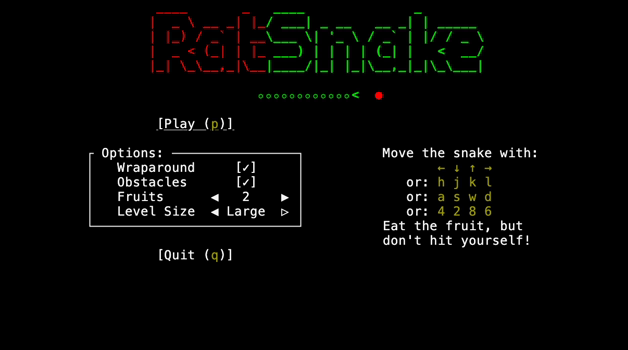
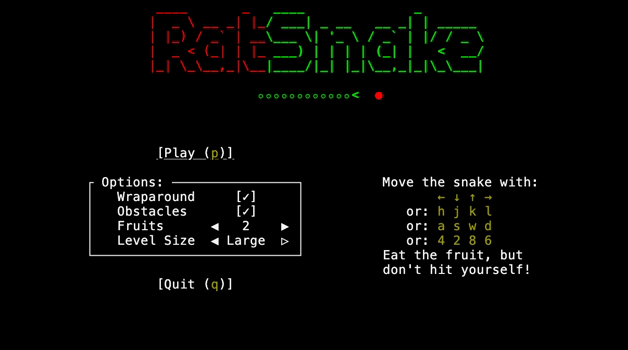
Yet another main menu layout tweak

diff --git a/src/menu/mod.rs b/src/menu/mod.rs
@@ -154,9 +154,12 @@ impl Widget for &MainMenu {
             .areas(logo_area);
         Logo.render(logo_area, buf);
 
-        let [main_area] = Layout::vertical([OptionsMenu::HEIGHT + 4])
-            .flex(Flex::Start)
-            .areas(main_area);
+        let [_, main_area, _] = Layout::vertical([
+            Constraint::Fill(1),
+            Constraint::Length(OptionsMenu::HEIGHT + 4),
+            Constraint::Fill(2),
+        ])
+        .areas(main_area);
         let [form_area, instructions_area] =
             Layout::horizontal([OptionsMenu::WIDTH, Instructions::WIDTH])
                 .flex(Flex::SpaceAround)
@@ -382,6 +385,8 @@ mod tests {
                  "                                                                                ",
                  "                                 ⚬⚬⚬⚬⚬⚬⚬⚬⚬⚬⚬⚬<  ●                               ",
                  "                                                                                ",
+                 "                                                                                ",
+                 "                                                                                ",
                  "                    [Play (p)]                                                  ",
                  "                                                                                ",
                  "           ┌ Options: ────────────────┐          Move the snake with:           ",
@@ -396,32 +401,30 @@ mod tests {
                  "                                                                                ",
                  "                                                                                ",
                  "                                                                                ",
-                 "                                                                                ",
-                 "                                                                                ",
             ]);
             expected.set_style(Rect::new(19, 0, 15, 5), consts::FRUIT_STYLE); // "Rat"
             expected.set_style(Rect::new(34, 0, 28, 5), consts::SNAKE_STYLE); // "Snake"
             expected.set_style(Rect::new(33, 6, 13, 1), consts::SNAKE_STYLE); // ⚬⚬…⚬<
             expected.set_style(Rect::new(48, 6, 1, 1), consts::FRUIT_STYLE); // fruit in logo
-            expected.set_style(Rect::new(27, 8, 1, 1), consts::KEY_STYLE); // `p`
-            expected.set_style(Rect::new(20, 8, 10, 1), consts::MENU_SELECTION_STYLE); // Play button
-            expected.set_style(Rect::new(27, 17, 1, 1), consts::KEY_STYLE); // `q`
-            expected.set_style(Rect::new(56, 11, 1, 1), consts::KEY_STYLE); // `←`
-            expected.set_style(Rect::new(58, 11, 1, 1), consts::KEY_STYLE); // `↓`
-            expected.set_style(Rect::new(60, 11, 1, 1), consts::KEY_STYLE); // `↑`
-            expected.set_style(Rect::new(62, 11, 1, 1), consts::KEY_STYLE); // `→`
-            expected.set_style(Rect::new(56, 12, 1, 1), consts::KEY_STYLE); // `h`
-            expected.set_style(Rect::new(58, 12, 1, 1), consts::KEY_STYLE); // `j`
-            expected.set_style(Rect::new(60, 12, 1, 1), consts::KEY_STYLE); // `k`
-            expected.set_style(Rect::new(62, 12, 1, 1), consts::KEY_STYLE); // `l`
-            expected.set_style(Rect::new(56, 13, 1, 1), consts::KEY_STYLE); // `a`
-            expected.set_style(Rect::new(58, 13, 1, 1), consts::KEY_STYLE); // `s`
-            expected.set_style(Rect::new(60, 13, 1, 1), consts::KEY_STYLE); // `w`
-            expected.set_style(Rect::new(62, 13, 1, 1), consts::KEY_STYLE); // `s`
-            expected.set_style(Rect::new(56, 14, 1, 1), consts::KEY_STYLE); // `4`
-            expected.set_style(Rect::new(58, 14, 1, 1), consts::KEY_STYLE); // `2`
-            expected.set_style(Rect::new(60, 14, 1, 1), consts::KEY_STYLE); // `8`
-            expected.set_style(Rect::new(62, 14, 1, 1), consts::KEY_STYLE); // `6`
+            expected.set_style(Rect::new(27, 10, 1, 1), consts::KEY_STYLE); // `p`
+            expected.set_style(Rect::new(20, 10, 10, 1), consts::MENU_SELECTION_STYLE); // Play button
+            expected.set_style(Rect::new(27, 19, 1, 1), consts::KEY_STYLE); // `q`
+            expected.set_style(Rect::new(56, 13, 1, 1), consts::KEY_STYLE); // `←`
+            expected.set_style(Rect::new(58, 13, 1, 1), consts::KEY_STYLE); // `↓`
+            expected.set_style(Rect::new(60, 13, 1, 1), consts::KEY_STYLE); // `↑`
+            expected.set_style(Rect::new(62, 13, 1, 1), consts::KEY_STYLE); // `→`
+            expected.set_style(Rect::new(56, 14, 1, 1), consts::KEY_STYLE); // `h`
+            expected.set_style(Rect::new(58, 14, 1, 1), consts::KEY_STYLE); // `j`
+            expected.set_style(Rect::new(60, 14, 1, 1), consts::KEY_STYLE); // `k`
+            expected.set_style(Rect::new(62, 14, 1, 1), consts::KEY_STYLE); // `l`
+            expected.set_style(Rect::new(56, 15, 1, 1), consts::KEY_STYLE); // `a`
+            expected.set_style(Rect::new(58, 15, 1, 1), consts::KEY_STYLE); // `s`
+            expected.set_style(Rect::new(60, 15, 1, 1), consts::KEY_STYLE); // `w`
+            expected.set_style(Rect::new(62, 15, 1, 1), consts::KEY_STYLE); // `s`
+            expected.set_style(Rect::new(56, 16, 1, 1), consts::KEY_STYLE); // `4`
+            expected.set_style(Rect::new(58, 16, 1, 1), consts::KEY_STYLE); // `2`
+            expected.set_style(Rect::new(60, 16, 1, 1), consts::KEY_STYLE); // `8`
+            expected.set_style(Rect::new(62, 16, 1, 1), consts::KEY_STYLE); // `6`
             pretty_assertions::assert_eq!(buffer, expected);
         }
 
@@ -444,6 +447,8 @@ mod tests {
                  "                                                                                ",
                  "                                 ⚬⚬⚬⚬⚬⚬⚬⚬⚬⚬⚬⚬<  ●                               ",
                  "                                                                                ",
+                 "                                                                                ",
+                 "                                                                                ",
                  "                    [Play (p)]                                                  ",
                  "                                                                                ",
                  "           ┌ Options: ────────────────┐          Move the snake with:           ",
@@ -458,32 +463,30 @@ mod tests {
                  "                                                                                ",
                  "                                                                                ",
                  "                                                                                ",
-                 "                                                                                ",
-                 "                                                                                ",
             ]);
             expected.set_style(Rect::new(19, 0, 15, 5), consts::FRUIT_STYLE); // "Rat"
             expected.set_style(Rect::new(34, 0, 28, 5), consts::SNAKE_STYLE); // "Snake"
             expected.set_style(Rect::new(33, 6, 13, 1), consts::SNAKE_STYLE); // ⚬⚬…⚬<
             expected.set_style(Rect::new(48, 6, 1, 1), consts::FRUIT_STYLE); // fruit in logo
-            expected.set_style(Rect::new(27, 8, 1, 1), consts::KEY_STYLE); // `p`
-            expected.set_style(Rect::new(13, 11, 24, 1), consts::MENU_SELECTION_STYLE); // "Wraparound" option
-            expected.set_style(Rect::new(27, 17, 1, 1), consts::KEY_STYLE); // `q`
-            expected.set_style(Rect::new(56, 11, 1, 1), consts::KEY_STYLE); // `←`
-            expected.set_style(Rect::new(58, 11, 1, 1), consts::KEY_STYLE); // `↓`
-            expected.set_style(Rect::new(60, 11, 1, 1), consts::KEY_STYLE); // `↑`
-            expected.set_style(Rect::new(62, 11, 1, 1), consts::KEY_STYLE); // `→`
-            expected.set_style(Rect::new(56, 12, 1, 1), consts::KEY_STYLE); // `h`
-            expected.set_style(Rect::new(58, 12, 1, 1), consts::KEY_STYLE); // `j`
-            expected.set_style(Rect::new(60, 12, 1, 1), consts::KEY_STYLE); // `k`
-            expected.set_style(Rect::new(62, 12, 1, 1), consts::KEY_STYLE); // `l`
-            expected.set_style(Rect::new(56, 13, 1, 1), consts::KEY_STYLE); // `a`
-            expected.set_style(Rect::new(58, 13, 1, 1), consts::KEY_STYLE); // `s`
-            expected.set_style(Rect::new(60, 13, 1, 1), consts::KEY_STYLE); // `w`
-            expected.set_style(Rect::new(62, 13, 1, 1), consts::KEY_STYLE); // `s`
-            expected.set_style(Rect::new(56, 14, 1, 1), consts::KEY_STYLE); // `4`
-            expected.set_style(Rect::new(58, 14, 1, 1), consts::KEY_STYLE); // `2`
-            expected.set_style(Rect::new(60, 14, 1, 1), consts::KEY_STYLE); // `8`
-            expected.set_style(Rect::new(62, 14, 1, 1), consts::KEY_STYLE); // `6`
+            expected.set_style(Rect::new(27, 10, 1, 1), consts::KEY_STYLE); // `p`
+            expected.set_style(Rect::new(13, 13, 24, 1), consts::MENU_SELECTION_STYLE); // "Wraparound" option
+            expected.set_style(Rect::new(27, 19, 1, 1), consts::KEY_STYLE); // `q`
+            expected.set_style(Rect::new(56, 13, 1, 1), consts::KEY_STYLE); // `←`
+            expected.set_style(Rect::new(58, 13, 1, 1), consts::KEY_STYLE); // `↓`
+            expected.set_style(Rect::new(60, 13, 1, 1), consts::KEY_STYLE); // `↑`
+            expected.set_style(Rect::new(62, 13, 1, 1), consts::KEY_STYLE); // `→`
+            expected.set_style(Rect::new(56, 14, 1, 1), consts::KEY_STYLE); // `h`
+            expected.set_style(Rect::new(58, 14, 1, 1), consts::KEY_STYLE); // `j`
+            expected.set_style(Rect::new(60, 14, 1, 1), consts::KEY_STYLE); // `k`
+            expected.set_style(Rect::new(62, 14, 1, 1), consts::KEY_STYLE); // `l`
+            expected.set_style(Rect::new(56, 15, 1, 1), consts::KEY_STYLE); // `a`
+            expected.set_style(Rect::new(58, 15, 1, 1), consts::KEY_STYLE); // `s`
+            expected.set_style(Rect::new(60, 15, 1, 1), consts::KEY_STYLE); // `w`
+            expected.set_style(Rect::new(62, 15, 1, 1), consts::KEY_STYLE); // `s`
+            expected.set_style(Rect::new(56, 16, 1, 1), consts::KEY_STYLE); // `4`
+            expected.set_style(Rect::new(58, 16, 1, 1), consts::KEY_STYLE); // `2`
+            expected.set_style(Rect::new(60, 16, 1, 1), consts::KEY_STYLE); // `8`
+            expected.set_style(Rect::new(62, 16, 1, 1), consts::KEY_STYLE); // `6`
             pretty_assertions::assert_eq!(buffer, expected);
 
             assert!(menu
@@ -500,6 +503,8 @@ mod tests {
                 r"                   |_| \_\__,_|\__|____/|_| |_|\__,_|_|\_\___|                  ",
                  "                                                                                ",
                  "                                 ⚬⚬⚬⚬⚬⚬⚬⚬⚬⚬⚬⚬<  ●                               ",
+                 "                                                                                ",
+                 "                                                                                ",
                  "                                                                                ",
                  "                    [Play (p)]                                                  ",
                  "                                                                                ",
@@ -515,32 +520,30 @@ mod tests {
                  "                                                                                ",
                  "                                                                                ",
                  "                                                                                ",
-                 "                                                                                ",
-                 "                                                                                ",
             ]);
             expected.set_style(Rect::new(19, 0, 15, 5), consts::FRUIT_STYLE); // "Rat"
             expected.set_style(Rect::new(34, 0, 28, 5), consts::SNAKE_STYLE); // "Snake"
             expected.set_style(Rect::new(33, 6, 13, 1), consts::SNAKE_STYLE); // ⚬⚬…⚬<
             expected.set_style(Rect::new(48, 6, 1, 1), consts::FRUIT_STYLE); // fruit in logo
-            expected.set_style(Rect::new(27, 8, 1, 1), consts::KEY_STYLE); // `p`
-            expected.set_style(Rect::new(13, 11, 24, 1), consts::MENU_SELECTION_STYLE); // "Wraparound" option
-            expected.set_style(Rect::new(27, 17, 1, 1), consts::KEY_STYLE); // `q`
-            expected.set_style(Rect::new(56, 11, 1, 1), consts::KEY_STYLE); // `←`
-            expected.set_style(Rect::new(58, 11, 1, 1), consts::KEY_STYLE); // `↓`
-            expected.set_style(Rect::new(60, 11, 1, 1), consts::KEY_STYLE); // `↑`
-            expected.set_style(Rect::new(62, 11, 1, 1), consts::KEY_STYLE); // `→`
-            expected.set_style(Rect::new(56, 12, 1, 1), consts::KEY_STYLE); // `h`
-            expected.set_style(Rect::new(58, 12, 1, 1), consts::KEY_STYLE); // `j`
-            expected.set_style(Rect::new(60, 12, 1, 1), consts::KEY_STYLE); // `k`
-            expected.set_style(Rect::new(62, 12, 1, 1), consts::KEY_STYLE); // `l`
-            expected.set_style(Rect::new(56, 13, 1, 1), consts::KEY_STYLE); // `a`
-            expected.set_style(Rect::new(58, 13, 1, 1), consts::KEY_STYLE); // `s`
-            expected.set_style(Rect::new(60, 13, 1, 1), consts::KEY_STYLE); // `w`
-            expected.set_style(Rect::new(62, 13, 1, 1), consts::KEY_STYLE); // `s`
-            expected.set_style(Rect::new(56, 14, 1, 1), consts::KEY_STYLE); // `4`
-            expected.set_style(Rect::new(58, 14, 1, 1), consts::KEY_STYLE); // `2`
-            expected.set_style(Rect::new(60, 14, 1, 1), consts::KEY_STYLE); // `8`
-            expected.set_style(Rect::new(62, 14, 1, 1), consts::KEY_STYLE); // `6`
+            expected.set_style(Rect::new(27, 10, 1, 1), consts::KEY_STYLE); // `p`
+            expected.set_style(Rect::new(13, 13, 24, 1), consts::MENU_SELECTION_STYLE); // "Wraparound" option
+            expected.set_style(Rect::new(27, 19, 1, 1), consts::KEY_STYLE); // `q`
+            expected.set_style(Rect::new(56, 13, 1, 1), consts::KEY_STYLE); // `←`
+            expected.set_style(Rect::new(58, 13, 1, 1), consts::KEY_STYLE); // `↓`
+            expected.set_style(Rect::new(60, 13, 1, 1), consts::KEY_STYLE); // `↑`
+            expected.set_style(Rect::new(62, 13, 1, 1), consts::KEY_STYLE); // `→`
+            expected.set_style(Rect::new(56, 14, 1, 1), consts::KEY_STYLE); // `h`
+            expected.set_style(Rect::new(58, 14, 1, 1), consts::KEY_STYLE); // `j`
+            expected.set_style(Rect::new(60, 14, 1, 1), consts::KEY_STYLE); // `k`
+            expected.set_style(Rect::new(62, 14, 1, 1), consts::KEY_STYLE); // `l`
+            expected.set_style(Rect::new(56, 15, 1, 1), consts::KEY_STYLE); // `a`
+            expected.set_style(Rect::new(58, 15, 1, 1), consts::KEY_STYLE); // `s`
+            expected.set_style(Rect::new(60, 15, 1, 1), consts::KEY_STYLE); // `w`
+            expected.set_style(Rect::new(62, 15, 1, 1), consts::KEY_STYLE); // `s`
+            expected.set_style(Rect::new(56, 16, 1, 1), consts::KEY_STYLE); // `4`
+            expected.set_style(Rect::new(58, 16, 1, 1), consts::KEY_STYLE); // `2`
+            expected.set_style(Rect::new(60, 16, 1, 1), consts::KEY_STYLE); // `8`
+            expected.set_style(Rect::new(62, 16, 1, 1), consts::KEY_STYLE); // `6`
             pretty_assertions::assert_eq!(buffer, expected);
 
             assert!(menu
@@ -567,6 +570,8 @@ mod tests {
                  "                                                                                ",
                  "                                 ⚬⚬⚬⚬⚬⚬⚬⚬⚬⚬⚬⚬<  ●                               ",
                  "                                                                                ",
+                 "                                                                                ",
+                 "                                                                                ",
                  "                    [Play (p)]                                                  ",
                  "                                                                                ",
                  "           ┌ Options: ────────────────┐          Move the snake with:           ",
@@ -581,32 +586,30 @@ mod tests {
                  "                                                                                ",
                  "                                                                                ",
                  "                                                                                ",
-                 "                                                                                ",
-                 "                                                                                ",
             ]);
             expected.set_style(Rect::new(19, 0, 15, 5), consts::FRUIT_STYLE); // "Rat"
             expected.set_style(Rect::new(34, 0, 28, 5), consts::SNAKE_STYLE); // "Snake"
             expected.set_style(Rect::new(33, 6, 13, 1), consts::SNAKE_STYLE); // ⚬⚬…⚬<
             expected.set_style(Rect::new(48, 6, 1, 1), consts::FRUIT_STYLE); // fruit in logo
-            expected.set_style(Rect::new(27, 8, 1, 1), consts::KEY_STYLE); // `p`
-            expected.set_style(Rect::new(13, 14, 24, 1), consts::MENU_SELECTION_STYLE); // "Level Size" option
-            expected.set_style(Rect::new(27, 17, 1, 1), consts::KEY_STYLE); // `q`
-            expected.set_style(Rect::new(56, 11, 1, 1), consts::KEY_STYLE); // `←`
-            expected.set_style(Rect::new(58, 11, 1, 1), consts::KEY_STYLE); // `↓`
-            expected.set_style(Rect::new(60, 11, 1, 1), consts::KEY_STYLE); // `↑`
-            expected.set_style(Rect::new(62, 11, 1, 1), consts::KEY_STYLE); // `→`
-            expected.set_style(Rect::new(56, 12, 1, 1), consts::KEY_STYLE); // `h`
-            expected.set_style(Rect::new(58, 12, 1, 1), consts::KEY_STYLE); // `j`
-            expected.set_style(Rect::new(60, 12, 1, 1), consts::KEY_STYLE); // `k`
-            expected.set_style(Rect::new(62, 12, 1, 1), consts::KEY_STYLE); // `l`
-            expected.set_style(Rect::new(56, 13, 1, 1), consts::KEY_STYLE); // `a`
-            expected.set_style(Rect::new(58, 13, 1, 1), consts::KEY_STYLE); // `s`
-            expected.set_style(Rect::new(60, 13, 1, 1), consts::KEY_STYLE); // `w`
-            expected.set_style(Rect::new(62, 13, 1, 1), consts::KEY_STYLE); // `s`
-            expected.set_style(Rect::new(56, 14, 1, 1), consts::KEY_STYLE); // `4`
-            expected.set_style(Rect::new(58, 14, 1, 1), consts::KEY_STYLE); // `2`
-            expected.set_style(Rect::new(60, 14, 1, 1), consts::KEY_STYLE); // `8`
-            expected.set_style(Rect::new(62, 14, 1, 1), consts::KEY_STYLE); // `6`
+            expected.set_style(Rect::new(27, 10, 1, 1), consts::KEY_STYLE); // `p`
+            expected.set_style(Rect::new(13, 16, 24, 1), consts::MENU_SELECTION_STYLE); // "Level Size" option
+            expected.set_style(Rect::new(27, 19, 1, 1), consts::KEY_STYLE); // `q`
+            expected.set_style(Rect::new(56, 13, 1, 1), consts::KEY_STYLE); // `←`
+            expected.set_style(Rect::new(58, 13, 1, 1), consts::KEY_STYLE); // `↓`
+            expected.set_style(Rect::new(60, 13, 1, 1), consts::KEY_STYLE); // `↑`
+            expected.set_style(Rect::new(62, 13, 1, 1), consts::KEY_STYLE); // `→`
+            expected.set_style(Rect::new(56, 14, 1, 1), consts::KEY_STYLE); // `h`
+            expected.set_style(Rect::new(58, 14, 1, 1), consts::KEY_STYLE); // `j`
+            expected.set_style(Rect::new(60, 14, 1, 1), consts::KEY_STYLE); // `k`
+            expected.set_style(Rect::new(62, 14, 1, 1), consts::KEY_STYLE); // `l`
+            expected.set_style(Rect::new(56, 15, 1, 1), consts::KEY_STYLE); // `a`
+            expected.set_style(Rect::new(58, 15, 1, 1), consts::KEY_STYLE); // `s`
+            expected.set_style(Rect::new(60, 15, 1, 1), consts::KEY_STYLE); // `w`
+            expected.set_style(Rect::new(62, 15, 1, 1), consts::KEY_STYLE); // `s`
+            expected.set_style(Rect::new(56, 16, 1, 1), consts::KEY_STYLE); // `4`
+            expected.set_style(Rect::new(58, 16, 1, 1), consts::KEY_STYLE); // `2`
+            expected.set_style(Rect::new(60, 16, 1, 1), consts::KEY_STYLE); // `8`
+            expected.set_style(Rect::new(62, 16, 1, 1), consts::KEY_STYLE); // `6`
             pretty_assertions::assert_eq!(buffer, expected);
 
             assert!(menu
@@ -623,6 +626,8 @@ mod tests {
                 r"                   |_| \_\__,_|\__|____/|_| |_|\__,_|_|\_\___|                  ",
                  "                                                                                ",
                  "                                 ⚬⚬⚬⚬⚬⚬⚬⚬⚬⚬⚬⚬<  ●                               ",
+                 "                                                                                ",
+                 "                                                                                ",
                  "                                                                                ",
                  "                    [Play (p)]                                                  ",
                  "                                                                                ",
@@ -638,32 +643,30 @@ mod tests {
                  "                                                                                ",
                  "                                                                                ",
                  "                                                                                ",
-                 "                                                                                ",
-                 "                                                                                ",
             ]);
             expected.set_style(Rect::new(19, 0, 15, 5), consts::FRUIT_STYLE); // "Rat"
             expected.set_style(Rect::new(34, 0, 28, 5), consts::SNAKE_STYLE); // "Snake"
             expected.set_style(Rect::new(33, 6, 13, 1), consts::SNAKE_STYLE); // ⚬⚬…⚬<
             expected.set_style(Rect::new(48, 6, 1, 1), consts::FRUIT_STYLE); // fruit in logo
-            expected.set_style(Rect::new(27, 8, 1, 1), consts::KEY_STYLE); // `p`
-            expected.set_style(Rect::new(13, 14, 24, 1), consts::MENU_SELECTION_STYLE); // "Level Size" option
-            expected.set_style(Rect::new(27, 17, 1, 1), consts::KEY_STYLE); // `q`
-            expected.set_style(Rect::new(56, 11, 1, 1), consts::KEY_STYLE); // `←`
-            expected.set_style(Rect::new(58, 11, 1, 1), consts::KEY_STYLE); // `↓`
-            expected.set_style(Rect::new(60, 11, 1, 1), consts::KEY_STYLE); // `↑`
-            expected.set_style(Rect::new(62, 11, 1, 1), consts::KEY_STYLE); // `→`
-            expected.set_style(Rect::new(56, 12, 1, 1), consts::KEY_STYLE); // `h`
-            expected.set_style(Rect::new(58, 12, 1, 1), consts::KEY_STYLE); // `j`
-            expected.set_style(Rect::new(60, 12, 1, 1), consts::KEY_STYLE); // `k`
-            expected.set_style(Rect::new(62, 12, 1, 1), consts::KEY_STYLE); // `l`
-            expected.set_style(Rect::new(56, 13, 1, 1), consts::KEY_STYLE); // `a`
-            expected.set_style(Rect::new(58, 13, 1, 1), consts::KEY_STYLE); // `s`
-            expected.set_style(Rect::new(60, 13, 1, 1), consts::KEY_STYLE); // `w`
-            expected.set_style(Rect::new(62, 13, 1, 1), consts::KEY_STYLE); // `s`
-            expected.set_style(Rect::new(56, 14, 1, 1), consts::KEY_STYLE); // `4`
-            expected.set_style(Rect::new(58, 14, 1, 1), consts::KEY_STYLE); // `2`
-            expected.set_style(Rect::new(60, 14, 1, 1), consts::KEY_STYLE); // `8`
-            expected.set_style(Rect::new(62, 14, 1, 1), consts::KEY_STYLE); // `6`
+            expected.set_style(Rect::new(27, 10, 1, 1), consts::KEY_STYLE); // `p`
+            expected.set_style(Rect::new(13, 16, 24, 1), consts::MENU_SELECTION_STYLE); // "Level Size" option
+            expected.set_style(Rect::new(27, 19, 1, 1), consts::KEY_STYLE); // `q`
+            expected.set_style(Rect::new(56, 13, 1, 1), consts::KEY_STYLE); // `←`
+            expected.set_style(Rect::new(58, 13, 1, 1), consts::KEY_STYLE); // `↓`
+            expected.set_style(Rect::new(60, 13, 1, 1), consts::KEY_STYLE); // `↑`
+            expected.set_style(Rect::new(62, 13, 1, 1), consts::KEY_STYLE); // `→`
+            expected.set_style(Rect::new(56, 14, 1, 1), consts::KEY_STYLE); // `h`
+            expected.set_style(Rect::new(58, 14, 1, 1), consts::KEY_STYLE); // `j`
+            expected.set_style(Rect::new(60, 14, 1, 1), consts::KEY_STYLE); // `k`
+            expected.set_style(Rect::new(62, 14, 1, 1), consts::KEY_STYLE); // `l`
+            expected.set_style(Rect::new(56, 15, 1, 1), consts::KEY_STYLE); // `a`
+            expected.set_style(Rect::new(58, 15, 1, 1), consts::KEY_STYLE); // `s`
+            expected.set_style(Rect::new(60, 15, 1, 1), consts::KEY_STYLE); // `w`
+            expected.set_style(Rect::new(62, 15, 1, 1), consts::KEY_STYLE); // `s`
+            expected.set_style(Rect::new(56, 16, 1, 1), consts::KEY_STYLE); // `4`
+            expected.set_style(Rect::new(58, 16, 1, 1), consts::KEY_STYLE); // `2`
+            expected.set_style(Rect::new(60, 16, 1, 1), consts::KEY_STYLE); // `8`
+            expected.set_style(Rect::new(62, 16, 1, 1), consts::KEY_STYLE); // `6`
             pretty_assertions::assert_eq!(buffer, expected);
 
             assert!(menu
@@ -681,6 +684,8 @@ mod tests {
                  "                                                                                ",
                  "                                 ⚬⚬⚬⚬⚬⚬⚬⚬⚬⚬⚬⚬<  ●                               ",
                  "                                                                                ",
+                 "                                                                                ",
+                 "                                                                                ",
                  "                    [Play (p)]                                                  ",
                  "                                                                                ",
                  "           ┌ Options: ────────────────┐          Move the snake with:           ",
@@ -695,32 +700,30 @@ mod tests {
                  "                                                                                ",
                  "                                                                                ",
                  "                                                                                ",
-                 "                                                                                ",
-                 "                                                                                ",
             ]);
             expected.set_style(Rect::new(19, 0, 15, 5), consts::FRUIT_STYLE); // "Rat"
             expected.set_style(Rect::new(34, 0, 28, 5), consts::SNAKE_STYLE); // "Snake"
             expected.set_style(Rect::new(33, 6, 13, 1), consts::SNAKE_STYLE); // ⚬⚬…⚬<
             expected.set_style(Rect::new(48, 6, 1, 1), consts::FRUIT_STYLE); // fruit in logo
-            expected.set_style(Rect::new(27, 8, 1, 1), consts::KEY_STYLE); // `p`
-            expected.set_style(Rect::new(13, 14, 24, 1), consts::MENU_SELECTION_STYLE); // "Level Size" option
-            expected.set_style(Rect::new(27, 17, 1, 1), consts::KEY_STYLE); // `q`
-            expected.set_style(Rect::new(56, 11, 1, 1), consts::KEY_STYLE); // `←`
-            expected.set_style(Rect::new(58, 11, 1, 1), consts::KEY_STYLE); // `↓`
-            expected.set_style(Rect::new(60, 11, 1, 1), consts::KEY_STYLE); // `↑`
-            expected.set_style(Rect::new(62, 11, 1, 1), consts::KEY_STYLE); // `→`
-            expected.set_style(Rect::new(56, 12, 1, 1), consts::KEY_STYLE); // `h`
-            expected.set_style(Rect::new(58, 12, 1, 1), consts::KEY_STYLE); // `j`
-            expected.set_style(Rect::new(60, 12, 1, 1), consts::KEY_STYLE); // `k`
-            expected.set_style(Rect::new(62, 12, 1, 1), consts::KEY_STYLE); // `l`
-            expected.set_style(Rect::new(56, 13, 1, 1), consts::KEY_STYLE); // `a`
-            expected.set_style(Rect::new(58, 13, 1, 1), consts::KEY_STYLE); // `s`
-            expected.set_style(Rect::new(60, 13, 1, 1), consts::KEY_STYLE); // `w`
-            expected.set_style(Rect::new(62, 13, 1, 1), consts::KEY_STYLE); // `s`
-            expected.set_style(Rect::new(56, 14, 1, 1), consts::KEY_STYLE); // `4`
-            expected.set_style(Rect::new(58, 14, 1, 1), consts::KEY_STYLE); // `2`
-            expected.set_style(Rect::new(60, 14, 1, 1), consts::KEY_STYLE); // `8`
-            expected.set_style(Rect::new(62, 14, 1, 1), consts::KEY_STYLE); // `6`
+            expected.set_style(Rect::new(27, 10, 1, 1), consts::KEY_STYLE); // `p`
+            expected.set_style(Rect::new(13, 16, 24, 1), consts::MENU_SELECTION_STYLE); // "Level Size" option
+            expected.set_style(Rect::new(27, 19, 1, 1), consts::KEY_STYLE); // `q`
+            expected.set_style(Rect::new(56, 13, 1, 1), consts::KEY_STYLE); // `←`
+            expected.set_style(Rect::new(58, 13, 1, 1), consts::KEY_STYLE); // `↓`
+            expected.set_style(Rect::new(60, 13, 1, 1), consts::KEY_STYLE); // `↑`
+            expected.set_style(Rect::new(62, 13, 1, 1), consts::KEY_STYLE); // `→`
+            expected.set_style(Rect::new(56, 14, 1, 1), consts::KEY_STYLE); // `h`
+            expected.set_style(Rect::new(58, 14, 1, 1), consts::KEY_STYLE); // `j`
+            expected.set_style(Rect::new(60, 14, 1, 1), consts::KEY_STYLE); // `k`
+            expected.set_style(Rect::new(62, 14, 1, 1), consts::KEY_STYLE); // `l`
+            expected.set_style(Rect::new(56, 15, 1, 1), consts::KEY_STYLE); // `a`
+            expected.set_style(Rect::new(58, 15, 1, 1), consts::KEY_STYLE); // `s`
+            expected.set_style(Rect::new(60, 15, 1, 1), consts::KEY_STYLE); // `w`
+            expected.set_style(Rect::new(62, 15, 1, 1), consts::KEY_STYLE); // `s`
+            expected.set_style(Rect::new(56, 16, 1, 1), consts::KEY_STYLE); // `4`
+            expected.set_style(Rect::new(58, 16, 1, 1), consts::KEY_STYLE); // `2`
+            expected.set_style(Rect::new(60, 16, 1, 1), consts::KEY_STYLE); // `8`
+            expected.set_style(Rect::new(62, 16, 1, 1), consts::KEY_STYLE); // `6`
             pretty_assertions::assert_eq!(buffer, expected);
         }
 
